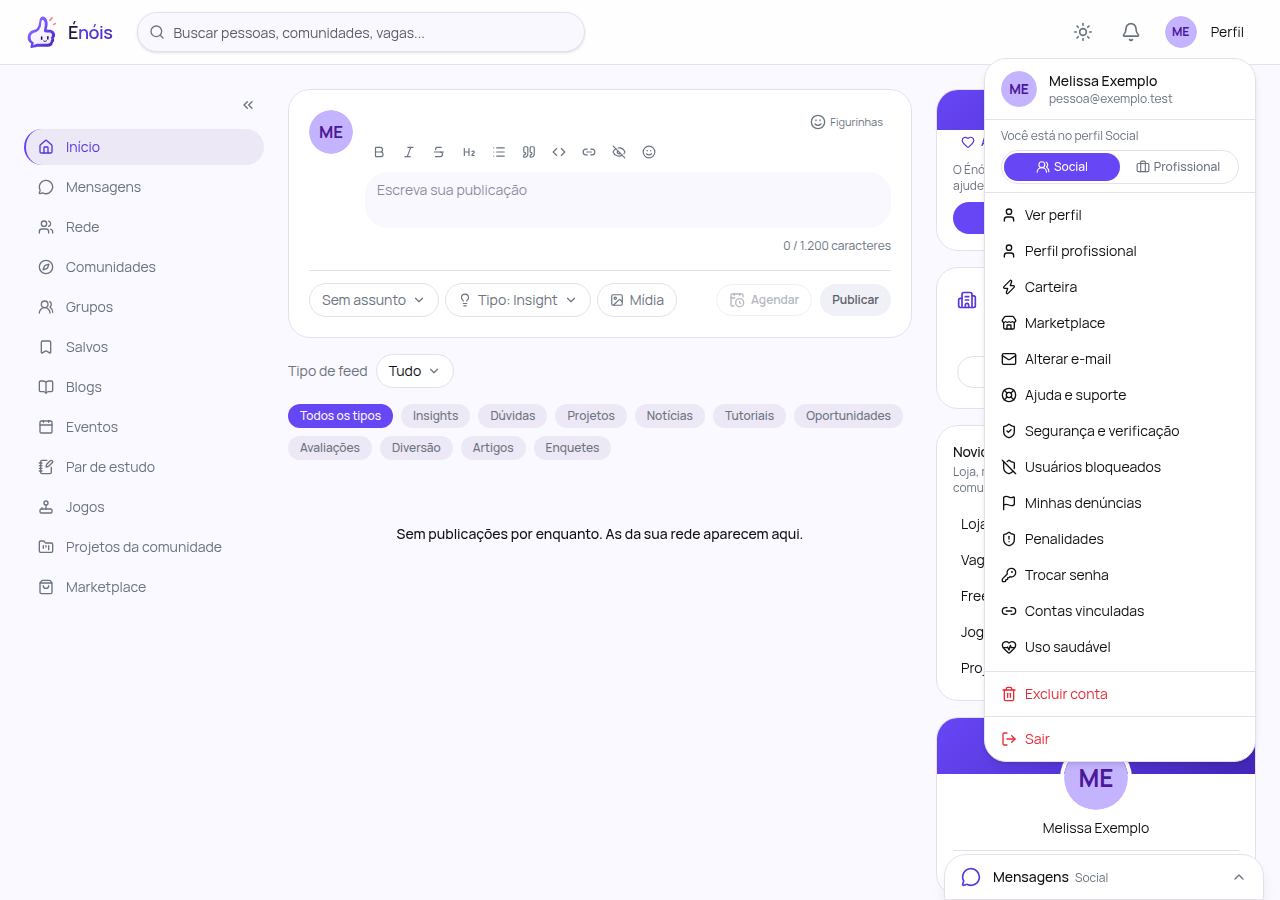
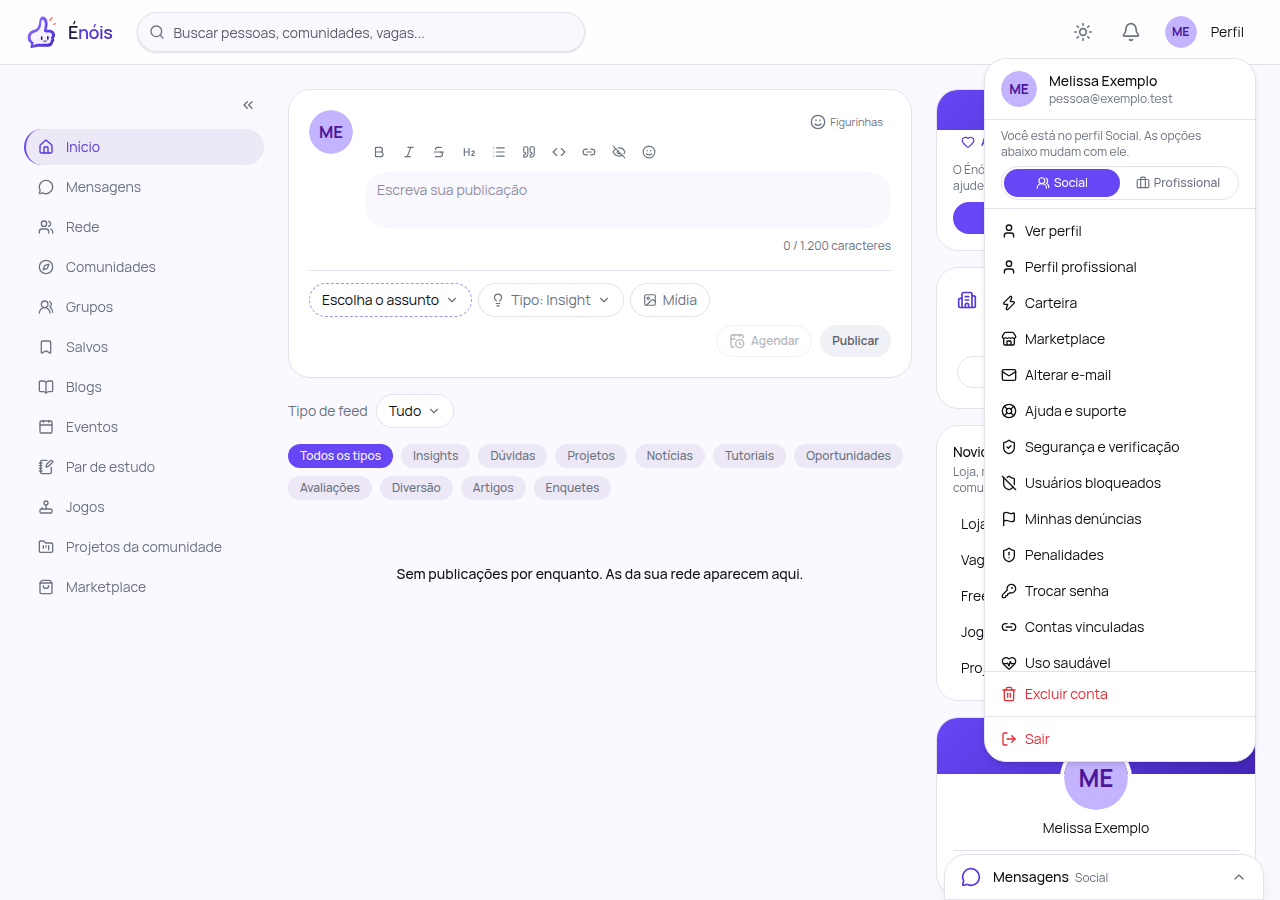
feat(perfil): entra no perfil profissional ao criar, com o aviso do menu à vista

diff --git a/src/routes/profissional.test.tsx b/src/routes/profissional.test.tsx
@@ -3,11 +3,15 @@ import { act } from "react";
 
 import { QueryClient, QueryClientProvider } from "@tanstack/react-query";
 
+import { texts } from "@/texts";
 import { type Root, createRoot } from "react-dom/client";
 import { afterEach, beforeEach, describe, expect, it, vi } from "vitest";
 
+import { readStoredContext } from "@/lib/interface-context";
+
 const mocks = vi.hoisted(() => ({
   me: vi.fn(),
+  create: vi.fn(),
   updateDetails: vi.fn(),
   upload: vi.fn(),
   crop: null as null | { aspect: number; onCropComplete: (blob: Blob) => Promise<void> },
@@ -18,7 +22,7 @@ vi.mock("@tanstack/react-router", () => ({
   Link: ({ children }: { children: React.ReactNode }) => <a>{children}</a>,
 }));
 vi.mock("@/lib/api", () => ({
-  corporateApi: { me: mocks.me, updateDetails: mocks.updateDetails },
+  corporateApi: { me: mocks.me, create: mocks.create, updateDetails: mocks.updateDetails },
 }));
 vi.mock("@/lib/require-auth", () => ({ requireAuth: () => undefined }));
 vi.mock("@/lib/use-auth", () => ({ useIsAuthenticated: () => true }));
@@ -111,5 +115,60 @@ describe("/profissional picture", () => {
 
     expect(mocks.crop).toBeNull();
     expect(mocks.upload).toHaveBeenCalledWith(expect.any(File), "AVATAR");
+  });
+});
+
+describe("/profissional criação", () => {
+  let root: Root;
+  let host: HTMLDivElement;
+
+  const settle = () => act(() => new Promise<void>((done) => setTimeout(done, 0)));
+
+  const fill = async (label: string, value: string) => {
+    const input = host.querySelector<HTMLInputElement>(`input[aria-label="${label}"]`)!;
+    await act(async () => {
+      // React reads the value off the controlled input: go through the native setter.
+      Object.getOwnPropertyDescriptor(HTMLInputElement.prototype, "value")!.set!.call(input, value);
+      input.dispatchEvent(new Event("input", { bubbles: true }));
+    });
+  };
+
+  beforeEach(async () => {
+    vi.stubGlobal("IS_REACT_ACT_ENVIRONMENT", true);
+    window.localStorage.clear();
+    mocks.create.mockReset().mockResolvedValue({});
+    // Sem perfil profissional ainda: a tela mostra o formulário de criação.
+    mocks.me.mockReset().mockResolvedValue({ exists: false, active: false });
+    host = document.createElement("div");
+    document.body.appendChild(host);
+    root = createRoot(host);
+    await act(async () =>
+      root.render(
+        <QueryClientProvider client={new QueryClient()}>
+          <Profissional />
+        </QueryClientProvider>,
+      ),
+    );
+    await settle();
+  });
+
+  afterEach(() => {
+    act(() => root.unmount());
+    host.remove();
+    vi.unstubAllGlobals();
+  });
+
+  it("entra no perfil profissional ao criar, para o aviso do menu aparecer com contexto", async () => {
+    await fill(texts.corporate.username, "rita.design");
+    await fill(texts.corporate.name, "Rita");
+
+    const botao = [...host.querySelectorAll("button")].find((b) =>
+      b.textContent?.includes(texts.corporate.create),
+    )!;
+    await act(async () => botao.click());
+    await settle();
+
+    expect(mocks.create).toHaveBeenCalledWith("rita.design", "Rita");
+    expect(readStoredContext()).toBe("PROFESSIONAL");
   });
 });

diff --git a/src/routes/profissional.tsx b/src/routes/profissional.tsx
@@ -12,6 +12,7 @@ import { ArrowLeft, Camera, Image as ImageIcon } from "lucide-react";
 import { corporateApi } from "@/lib/api";
 import { resolveCdnUrl } from "@/lib/api/media";
 import { isValidNametag, nametagPath, normalizeNametag } from "@/lib/corporate/nametag";
+import { writeStoredContext } from "@/lib/interface-context";
 import { requireAuth } from "@/lib/require-auth";
 import { useIsAuthenticated } from "@/lib/use-auth";
 import { useMediaUpload } from "@/lib/use-media-upload";
@@ -89,9 +90,13 @@ function Profissional() {
 
   const create = useMutation({
     mutationFn: () => corporateApi.create(form.username.trim().toLowerCase(), form.name.trim()),
-    onSuccess: () => {
+    onSuccess: async () => {
       toast(texts.corporate.saved, "success");
-      refresh();
+      // Quem cria o perfil profissional passa a usá-lo: entrar nele agora deixa o aviso do menu
+      // ("Você está no perfil Profissional") à vista em vez de aparecer depois, sem contexto
+      // (issue #560). Espera o perfil chegar para o menu saber que há o que alternar.
+      writeStoredContext("PROFESSIONAL");
+      await queryClient.invalidateQueries({ queryKey: ["business-profile"] });
     },
     onError: (error) =>
       toast(error instanceof Error ? error.message : texts.corporate.saveError, "error"),

diff --git a/src/texts.ts b/src/texts.ts
@@ -697,11 +697,12 @@ export const texts = {
       identityRetry: "Tentar de novo",
       /**
        * O menu muda por inteiro ao trocar de identidade; sem este aviso, quem acabou de conhecer a
-       * alternância lê a mudança como bug (issue #560).
+       * alternância lê a mudança como bug (issue #560). A segunda frase diz que as opções mudam
+       * junto, que é o que a troca faz de fato.
        */
       activeIdentity: {
-        SOCIAL: "Você está no perfil Social",
-        PROFESSIONAL: "Você está no perfil Profissional",
+        SOCIAL: "Você está no perfil Social. As opções abaixo mudam com ele.",
+        PROFESSIONAL: "Você está no perfil Profissional. As opções abaixo mudam com ele.",
       },
       pushDenied: "Permissão de notificação negada. Libere nas configurações do navegador.",
       /** Pedido fechado sem escolha: não é negado, dá para tentar de novo. */

diff --git a/docs/proof/560/README.md b/docs/proof/560/README.md
@@ -6,16 +6,20 @@ perfil profissional (Vagas, Freelances, Empresas, Mentoria, Serviços) aparecem 
 Para quem acabou de conhecer a alternância, essa troca inteira parece bug.
 
 Agora, quando a conta tem perfil profissional ativo (é quando existe o que alternar), o menu mostra
-uma linha acima da escolha: **"Você está no perfil Social"** ou **"Você está no perfil
-Profissional"**, acompanhando a escolha atual.
+uma linha acima da escolha: **"Você está no perfil Social. As opções abaixo mudam com ele."** ou
+**"Você está no perfil Profissional. As opções abaixo mudam com ele."** — acompanhando a escolha
+atual e dizendo que a lista muda junto, que é o que a troca faz de fato.
+
+Quem cria o perfil profissional passa a entrar nele na hora: o aviso aparece com contexto, em vez
+de a alternância surgir depois, sem explicação.
 
 Medido no app real (Vite em 5174), com a sessão simulada no `localStorage` e a API interceptada no
 Chrome headless — nenhuma conta real, nenhum cookie de sessão de verdade:
 
-| Largura | Aviso no menu                              | Largura do documento |
-| ------- | ------------------------------------------ | -------------------- |
-| 390     | "Você está no perfil Social", 238×16 px    | 390 — sem rolagem lateral |
-| 1280    | "Você está no perfil Social", 238×16 px    | 1280 — sem rolagem lateral |
+| Largura | Aviso no menu                                                             | Largura do documento |
+| ------- | ------------------------------------------------------------------------- | -------------------- |
+| 390     | "Você está no perfil Social. As opções abaixo mudam com ele.", 238×32 px   | 390 — sem rolagem lateral |
+| 1280    | o mesmo texto, 238×32 px                                                   | 1280 — sem rolagem lateral |
 
 - `menu-390.png` — menu aberto no telefone: o aviso fica entre o cabeçalho da conta e a escolha.
 - `menu-1280.png` — o mesmo no desktop.
@@ -27,3 +31,7 @@ Como reproduzir: `node shot-560.mjs`, com o app em `http://127.0.0.1:5174`. O sc
 headless, semeia `session_active` e `enois_auth` (a pista de sessão), intercepta `/api/me`,
 `/api/me/business-profile` e as rotas de apoio, clica no botão "Menu da conta" e captura a 390 e a
 1280.
+
+O teste de componente (`account-menu.test.tsx`) garante o texto e o caso sem perfil profissional; o
+teste da rota (`profissional.test.tsx`) garante que criar o perfil grava a escolha PROFISSIONAL. A
+prova de que o aviso se lê na tela é esta captura.
